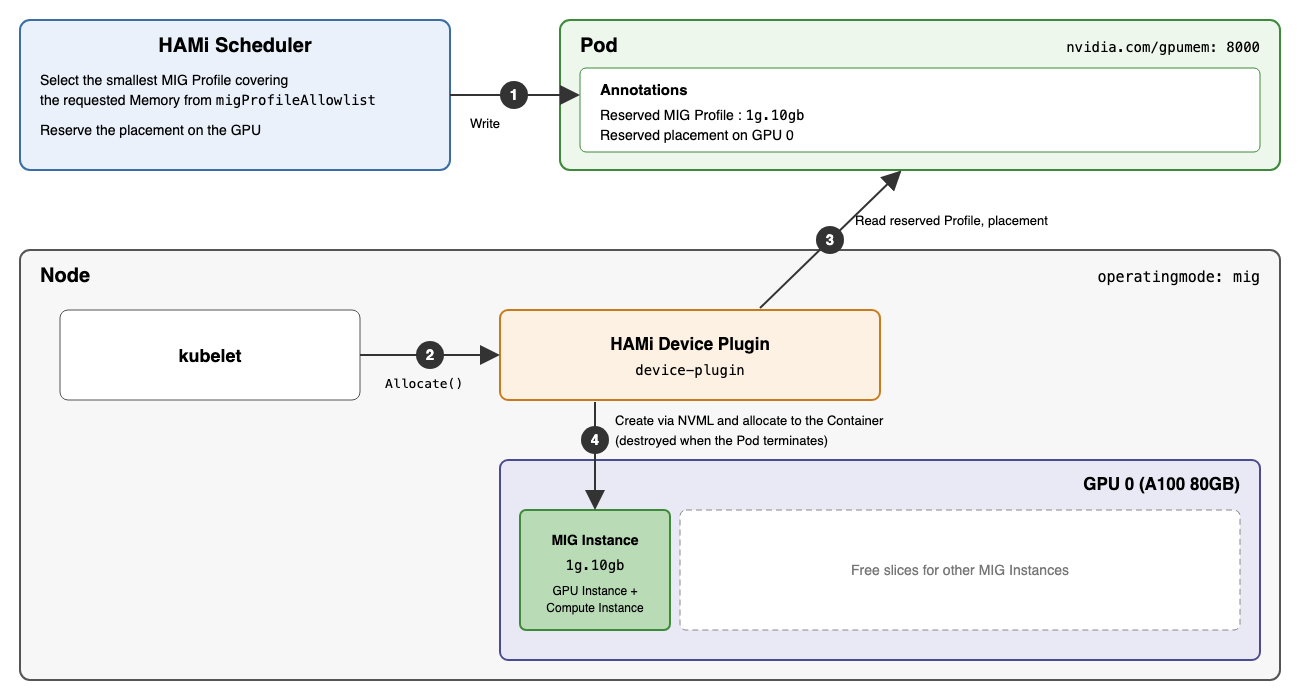
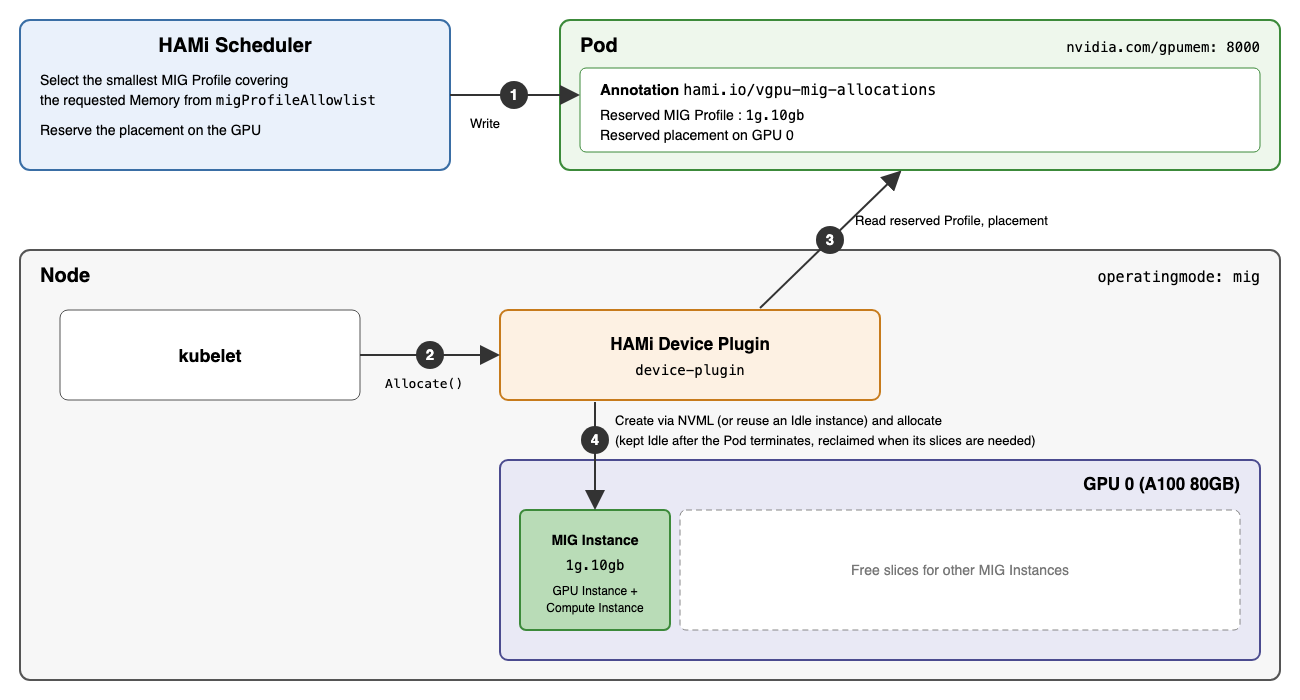
Clarify HAMi split count and MIG instance lifecycle

Changed region(s): [[0.4923, 0.57, 0.8, 0.66], [0.5231, 0.12, 0.7077, 0.15]]

diff --git a/content/docs/theory-analysis/kubernetes-hami-nvidia-gpu/index.md b/content/docs/theory-analysis/kubernetes-hami-nvidia-gpu/index.md
@@ -118,7 +118,7 @@ metadata:
 | `operatingmode` | Node의 vGPU 동작 모드. `hami-core`, `mig`, `remote` 중 하나 (`hami-core`) |
 {{< /table >}}
 
-[Table 2]는 NVIDIA GPU의 주요 vGPU 설정을 나타내고 있다. Cluster 공통 설정은 `hami-scheduler-device` ConfigMap의 `nvidia` Section에 정의하며, Node 단위의 재정의는 `hami-device-plugin` ConfigMap의 `nodeconfig` 목록에 Node 이름과 함께 정의한다. NVIDIA GPU에서는 물리 GPU 개수 × `deviceSplitCount`개의 `nvidia.com/gpu`가 Node의 Allocatable에 등록된다. `operatingmode`는 Node가 HAMi-core Mode와 MIG Mode 중 어느 방식으로 GPU를 나눌지 결정하며, `remote`는 네트워크를 통해서 다른 Server의 GPU를 이용하는 Mode로 이 글에서는 다루지 않는다.
+[Table 2]는 NVIDIA GPU의 주요 vGPU 설정을 나타내고 있다. Cluster 공통 설정은 `hami-scheduler-device` ConfigMap의 `nvidia` Section에 정의하며, Node 단위의 재정의는 `hami-device-plugin` ConfigMap의 `nodeconfig` 목록에 Node 이름과 함께 정의한다. NVIDIA GPU에서는 물리 GPU 개수 × `deviceSplitCount`개의 `nvidia.com/gpu`가 Node의 Allocatable에 등록된다. `operatingmode`는 Node가 HAMi-core Mode와 MIG Mode 중 어느 방식으로 GPU를 나눌지 결정하며, `remote`는 네트워크를 통해서 다른 Server의 GPU를 이용하는 Mode로 이 글에서는 다루지 않는다. `operatingmode`는 `nodeconfig`에서 Node 이름이나 `nodelabelselector`로 Node 단위로 지정하기 때문에 하나의 Cluster에서 Node마다 다른 Mode를 혼용할 수 있지만, 하나의 Node 안에서 GPU마다 다른 Mode를 지정할 수는 없다. 설정과 Node Label은 HAMi Device Plugin이 시작할 때 읽기 때문에, 변경 후에는 해당 Node의 HAMi Device Plugin을 재시작해야 한다.
 
 `deviceMemoryScaling`을 1보다 크게 설정하면 물리 Memory보다 많은 Memory를 할당하는 초과 할당이 가능한데, vGPU별 Memory 제한은 유지되지만 모든 vGPU가 제한값까지 Memory를 이용하면 물리 GPU의 OOM이 발생할 수 있는 실험적인 기능이다. `deviceCoreScaling`도 1보다 크게 설정하면 물리 SM보다 많은 SM 사용률을 할당할 수 있다. 두 Scaling 설정은 MIG Mode에는 적용되지 않으며, MIG Mode에서는 `deviceSplitCount` 대신 GPU가 수용할 수 있는 MIG Instance의 개수가 공유할 수 있는 Container 수를 제한한다.
 
@@ -388,6 +388,8 @@ MIG Mode는 `operatingmode`가 `mig`인 Node에서 동작하며, vGPU 요청에 
 
 Dynamic MIG는 v2.5.0에서 도입되었다. 도입 초기에는 `knownMigGeometries` 설정에 정의된 Geometry (Profile 조합) 단위로 GPU 전체의 MIG 구성을 전환하는 방식이었지만, v2.10.0의 Flexible MIG부터는 Profile 단위의 예약 방식으로 재구성되어 Node의 Cordon 없이 Workload별로 MIG Instance가 생성되고 회수된다. 단 HAMi가 MIG Instance의 생성과 제거를 단독으로 담당해야 하기 때문에, GPU Operator의 MIG Manager나 `mig-parted` 도구를 HAMi와 함께 운용할 수 없다.
 
+NVIDIA Device Plugin은 시작할 때 이미 생성된 MIG Instance를 조회하여 kubelet에 Device로 등록하기 때문에, MIG 구성을 변경하면 Device Plugin을 재시작해야 변경된 Device 목록이 반영된다. 반면 HAMi Device Plugin은 MIG Mode에서도 부모 GPU를 기준으로 만든 vGPU를 kubelet에 등록하고 MIG Instance는 `Allocate()` 처리 중에 생성하여 그 UUID를 Container에 전달하기 때문에, MIG Instance가 생성되고 회수되어도 Device Plugin을 재시작할 필요가 없다. 다만 GPU의 MIG Mode가 꺼져 있으면 HAMi Device Plugin이 첫 할당 시점에 MIG Mode를 직접 켜는데, A100 같은 Ampere GPU는 MIG Mode 변경에 GPU Reset이나 VM 재부팅이 필요할 수 있어 이 경우 할당이 실패한다. 따라서 Ampere GPU에서는 `nvidia-smi -mig 1` 명령어로 MIG Mode를 미리 켜고 GPU Reset까지 완료해 두는 것이 안전하다.
+
 #### 1.4.1. MIG Profile 선택
 
 ```yaml {caption="[File 8] MIG Mode를 지정하는 Pod 예제", linenos=table}
@@ -412,16 +414,22 @@ spec:
 
 MIG Profile은 Memory 크기만으로 선택되기 때문에 `nvidia.com/gpucores` 요청은 이용되지 않으며, 할당 내역에는 요청 값 대신 선택된 Profile의 Memory 크기와 Core 값이 기록된다. 특정 Profile을 선호하는 경우에는 Pod의 `nvidia.com/mig-profile-preference` Annotation에 `migProfileAllowlist`에 정의된 Profile 이름이나 `4g` 같은 Slice 접두사를 지정하며, 지정한 Profile이 Memory 크기를 수용하면 더 작은 Profile보다 먼저 선택된다. `nvidia.com/vgpu-mode` Annotation은 vGPU가 할당될 Mode를 고정하는 Annotation이며, 생략하면 HAMi Scheduler가 `mig` Node와 `hami-core` Node를 하나의 vGPU Pool로 취급하여 조건을 만족하는 Node를 자유롭게 선택한다.
 
+MIG Instance는 GPU의 Memory Slice 위에 생성되며, MIG Profile마다 생성할 수 있는 시작 위치가 정해져 있다. 예를 들어 A100 40GB GPU는 8개의 Slice를 가지며, `1g.5gb`는 0부터 6까지, `2g.10gb`는 0, 2, 4, `3g.20gb`는 0, 4에서 시작할 수 있고, `4g.20gb`와 `7g.40gb`는 0에서만 시작할 수 있다. 따라서 먼저 생성된 MIG Instance의 위치가 이후에 생성할 수 있는 MIG Profile을 제한한다.
+
+HAMi Scheduler는 HAMi Device Plugin이 NVML로 조회하여 등록한 위치 목록 중에서, GPU를 두 절반으로 나누어 작은 Profile은 한쪽 절반의 바깥쪽부터 채우고 다른 절반은 절반 크기의 Profile을 위해 비워 두는 방향으로 위치를 선택한다. 예를 들어 빈 A100 40GB GPU에 `1g.5gb`나 `2g.10gb`를 먼저 생성하면 위치 0에 배치되기 때문에 이후에도 위치 4에 `3g.20gb`를 생성할 수 있지만, 위치 0에서만 시작할 수 있는 `4g.20gb`는 생성할 수 없다.
+
 #### 1.4.2. MIG Instance 할당
 
 {{< figure caption="[Figure 3] Dynamic MIG Allocation Process" src="images/hami-nvidia-dynamic-mig.png" width="900px" >}}
 
 [Figure 3]은 Dynamic MIG의 할당 과정을 나타내고 있다.
 
-1. HAMi Scheduler는 [File 8]과 같이 선택한 MIG Profile과 함께 생성할 물리 위치까지 예약하여 Pod의 Annotation에 기록한다.
+1. HAMi Scheduler는 [File 8]과 같이 선택한 MIG Profile과 함께 생성할 물리 위치까지 예약하여 Pod의 `hami.io/vgpu-mig-allocations` Annotation에 기록한다.
 2. Pod가 Bind된 Node의 kubelet은 HAMi Device Plugin에게 `Allocate()` gRPC 요청을 전송한다.
 3. HAMi Device Plugin은 Pod의 Annotation에서 예약된 Profile과 위치를 조회한다.
-4. HAMi Device Plugin은 예약된 Profile의 GPU Instance와 Compute Instance를 NVML을 통해서 동적으로 생성하여 Container에 할당하고, Pod가 종료되면 생성했던 MIG Instance를 회수한다.
+4. HAMi Device Plugin은 예약된 Profile의 GPU Instance와 Compute Instance를 NVML을 통해서 동적으로 생성하여 Container에 할당한다. 같은 위치에 같은 크기의 Idle 상태 MIG Instance가 있으면 새로 생성하지 않고 재사용한다.
+
+Pod가 종료되어도 MIG Instance는 바로 제거되지 않는다. 같은 Profile이 다시 요청될 때 MIG Instance를 제거하고 다시 생성하는 Overhead를 줄이기 위해서이며, 재사용되는 MIG Instance는 MIG UUID도 그대로 유지된다. HAMi Device Plugin은 5초 주기로 실행 중인 Pod의 `hami.io/vgpu-mig-allocations` Annotation과 자신이 관리하는 MIG Instance를 비교하여, 이용하는 Pod가 없는 MIG Instance를 Idle 상태로 전환한다. 반면 HAMi Scheduler는 종료되지 않은 Pod의 Annotation만으로 MIG Instance의 위치를 계산하기 때문에 Idle 상태의 MIG Instance가 차지한 위치를 빈 공간으로 간주하며, 새로 예약된 위치가 Idle 상태의 MIG Instance와 겹치면 HAMi Device Plugin은 겹치는 MIG Instance를 오래 이용되지 않은 순서대로 제거한 후 새로운 MIG Instance를 생성한다.
 
 ### 1.5. GPU 선택
 

diff --git a/content/docs/theory-analysis/kubernetes-hami-nvidia-gpu/index.en.md b/content/docs/theory-analysis/kubernetes-hami-nvidia-gpu/index.en.md
@@ -118,7 +118,7 @@ metadata:
 | `operatingmode` | vGPU operating Mode of the Node. One of `hami-core`, `mig`, `remote` (`hami-core`) |
 {{< /table >}}
 
-[Table 2] shows the major vGPU settings of NVIDIA GPU. Cluster-wide settings are defined in the `nvidia` Section of the `hami-scheduler-device` ConfigMap, and per-Node overrides are defined with the Node name in the `nodeconfig` list of the `hami-device-plugin` ConfigMap. For NVIDIA GPU, the number of physical GPUs × `deviceSplitCount` of `nvidia.com/gpu` is registered in the Node's Allocatable. `operatingmode` decides whether the Node divides GPUs in HAMi-core Mode or MIG Mode, and `remote` is a Mode that uses GPUs of other Servers over the network, which this post does not cover.
+[Table 2] shows the major vGPU settings of NVIDIA GPU. Cluster-wide settings are defined in the `nvidia` Section of the `hami-scheduler-device` ConfigMap, and per-Node overrides are defined with the Node name in the `nodeconfig` list of the `hami-device-plugin` ConfigMap. For NVIDIA GPU, the number of physical GPUs × `deviceSplitCount` of `nvidia.com/gpu` is registered in the Node's Allocatable. `operatingmode` decides whether the Node divides GPUs in HAMi-core Mode or MIG Mode, and `remote` is a Mode that uses GPUs of other Servers over the network, which this post does not cover. Since `operatingmode` is specified per Node in `nodeconfig` by Node name or `nodelabelselector`, different Nodes in one Cluster can use different Modes, but different Modes cannot be specified for GPUs within one Node. Since HAMi Device Plugin reads the settings and Node Labels when it starts, the HAMi Device Plugin on the Node must be restarted after changing them.
 
 Setting `deviceMemoryScaling` above 1 enables over-allocation, allocating more Memory than the physical Memory. The per-vGPU Memory limit is maintained, but it is an experimental feature that can cause physical GPU OOM if all vGPUs use Memory up to their limits. Setting `deviceCoreScaling` above 1 also allows allocating more SM utilization than the physical SMs. The two Scaling settings do not apply to MIG Mode, and in MIG Mode, the number of MIG Instances a GPU can hold limits the number of Containers that can share it instead of `deviceSplitCount`.
 
@@ -388,6 +388,8 @@ MIG Mode operates on Nodes whose `operatingmode` is `mig` and uses the Dynamic M
 
 Dynamic MIG was introduced in v2.5.0. Initially, it switched the MIG configuration of the entire GPU in units of Geometries (Profile combinations) defined in the `knownMigGeometries` setting, but since Flexible MIG in v2.10.0, it has been restructured into a per-Profile reservation method, so MIG Instances are created and reclaimed per Workload without cordoning the Node. However, since HAMi must be solely responsible for creating and removing MIG Instances, GPU Operator's MIG Manager or the `mig-parted` tool cannot be operated together with HAMi.
 
+Since NVIDIA Device Plugin looks up already created MIG Instances when it starts and registers them with kubelet as Devices, the Device Plugin must be restarted after the MIG configuration changes for the changed Device list to be reflected. In contrast, HAMi Device Plugin registers vGPUs based on the parent GPU with kubelet even in MIG Mode, and creates MIG Instances while handling `Allocate()` and passes their UUIDs to the Container, so the Device Plugin does not need to be restarted when MIG Instances are created and reclaimed. However, if the GPU's MIG Mode is off, HAMi Device Plugin turns MIG Mode on by itself at the first allocation, and since Ampere GPUs such as A100 may require a GPU Reset or VM reboot to change MIG Mode, the allocation fails in that case. Therefore, on Ampere GPUs, it is safer to turn on MIG Mode in advance with the `nvidia-smi -mig 1` command and complete the GPU Reset.
+
 #### 1.4.1. MIG Profile Selection
 
 ```yaml {caption="[File 8] Example Pod specifying MIG Mode", linenos=table}
@@ -412,16 +414,22 @@ spec:
 
 Since MIG Profiles are selected by Memory size only, the `nvidia.com/gpucores` request is not used, and the Memory size and Core value of the selected Profile are recorded in the allocation history instead of the requested values. To prefer a specific Profile, specify a Profile name defined in `migProfileAllowlist` or a Slice prefix such as `4g` in the Pod's `nvidia.com/mig-profile-preference` Annotation, and if the specified Profile covers the Memory size, it is selected before smaller Profiles. The `nvidia.com/vgpu-mode` Annotation fixes the Mode in which the vGPU is allocated, and if omitted, HAMi Scheduler treats `mig` Nodes and `hami-core` Nodes as one vGPU Pool and freely selects a Node that satisfies the conditions.
 
+MIG Instances are created on the GPU's Memory Slices, and the start positions at which each MIG Profile can be created are fixed. For example, the A100 40GB GPU has 8 Slices, and `1g.5gb` can start from 0 to 6, `2g.10gb` at 0, 2, 4, `3g.20gb` at 0, 4, and `4g.20gb` and `7g.40gb` only at 0. Therefore, the positions of MIG Instances created first limit the MIG Profiles that can be created afterward.
+
+From the position list that HAMi Device Plugin queries through NVML and registers, HAMi Scheduler selects positions by dividing the GPU into two halves, filling one half with small Profiles from its outer edge and keeping the other half free for half-size Profiles. For example, if `1g.5gb` or `2g.10gb` is created first on an empty A100 40GB GPU, it is placed at position 0, so `3g.20gb` can still be created at position 4 afterward, but `4g.20gb`, which can start only at position 0, cannot be created.
+
 #### 1.4.2. MIG Instance Allocation
 
 {{< figure caption="[Figure 3] Dynamic MIG Allocation Process" src="images/hami-nvidia-dynamic-mig.png" width="900px" >}}
 
 [Figure 3] shows the Dynamic MIG allocation process.
 
-1. HAMi Scheduler reserves the MIG Profile selected as in [File 8] together with the physical position to create it, and records them in the Pod's Annotation.
+1. HAMi Scheduler reserves the MIG Profile selected as in [File 8] together with the physical position to create it, and records them in the Pod's `hami.io/vgpu-mig-allocations` Annotation.
 2. kubelet on the Node to which the Pod is bound sends an `Allocate()` gRPC request to HAMi Device Plugin.
 3. HAMi Device Plugin looks up the reserved Profile and position from the Pod's Annotation.
-4. HAMi Device Plugin dynamically creates the GPU Instance and Compute Instance of the reserved Profile through NVML and allocates them to the Container, and reclaims the created MIG Instance when the Pod terminates.
+4. HAMi Device Plugin dynamically creates the GPU Instance and Compute Instance of the reserved Profile through NVML and allocates them to the Container. If an Idle MIG Instance of the same size exists at the same position, it reuses it instead of creating a new one.
+
+MIG Instances are not removed immediately when the Pod terminates. This reduces the overhead of removing and recreating MIG Instances when the same Profile is requested again, and a reused MIG Instance keeps the same MIG UUID. Every 5 seconds, HAMi Device Plugin compares the `hami.io/vgpu-mig-allocations` Annotations of running Pods with the MIG Instances it manages, and switches MIG Instances used by no Pod to the Idle state. In contrast, HAMi Scheduler calculates MIG Instance positions only from the Annotations of Pods that have not terminated, so it regards the positions occupied by Idle MIG Instances as free space, and when a newly reserved position overlaps Idle MIG Instances, HAMi Device Plugin removes the overlapping MIG Instances in order of least recent use and then creates the new MIG Instance.
 
 ### 1.5. GPU Selection
 

diff --git a/content/docs/theory-analysis/kubernetes-hami/index.en.md b/content/docs/theory-analysis/kubernetes-hami/index.en.md
@@ -29,7 +29,7 @@ However, since the Device Plugin specification only allows limited information s
   * **Hardware-level Isolation** : The hardware itself is physically partitioned, creating virtual Accelerators in which each Partition has independent Memory and Cores. The possible configurations are limited to the set of Templates (fixed Memory and Core combinations) predefined by the vendor for each Chip, and one of these Templates is allocated to a Pod. The isolation is the most reliable, but partitioning finer than the Templates is not possible.
 * **Monitoring** : As in the **Metrics** path of [Figure 1], HAMi Scheduler provides the per-Accelerator and per-Pod allocation history on the `9395` Port, and the `vgpu-monitor` Container of HAMi Device Plugin provides the GPU state and the actual GPU usage of each Container on the `9394` Port, as Prometheus Metrics. Since the `vgpu-monitor` Container is included only in the HAMi Device Plugin for NVIDIA GPU, the actual usage Metrics are provided only for NVIDIA GPU.
 
-The Node in [Figure 1] has 2 physical Accelerators, and since the split count (`deviceSplitCount`) in the HAMi settings is set to 2, 4 Accelerators are registered in the Allocatable/Capacity of the Node. That is, one physical Accelerator can be shared by up to 2 Containers. Pod A requests 2 Accelerators with 80% Core utilization and Memory, and Pod B requests 1 Accelerator with 20% Core utilization and Memory, so Accelerator 1 is shared by Pod A and Pod B.
+The Node in [Figure 1] has 2 physical Accelerators, and since the split count (`deviceSplitCount`) in the HAMi settings is set to 2, 4 Accelerators are registered in the Allocatable/Capacity of the Node. That is, one physical Accelerator can be shared by up to 2 Containers. Pod A requests 2 Accelerators with 80% Core utilization and Memory, and Pod B requests 1 Accelerator with 20% Core utilization and Memory, so Accelerator 1 is shared by Pod A and Pod B. Since the split count is the upper limit on the number of Containers that can share one physical Accelerator, no more Containers can be allocated to an Accelerator that already has as many Containers as the split count, even if Memory and Cores remain.
 
 {{< table caption="[Table 2] Major Accelerators with HAMi Protocol Device Plugins" >}}
 | Accelerator | Accelerator Resource Name | Memory / Core Limit | Isolation Layer | Device Plugin |
@@ -96,7 +96,7 @@ Accelerator registration is performed by HAMi Device Plugin, which inflates the 
 2. HAMi Device Plugin creates its own Unix Domain Socket in the `/var/lib/kubelet/device-plugins/` Directory and starts the gRPC Server. The Socket file name differs for each Device Plugin, and NVIDIA GPU uses `nvidia-gpu.sock`.
 3. HAMi Device Plugin sends a `Register()` gRPC request through kubelet's Unix Domain Socket (`/var/lib/kubelet/device-plugins/kubelet.sock`) to register the Plugin itself with kubelet. The request includes the Resource name and the Socket file name created in step 2.
 4. After registration, HAMi Device Plugin starts checking the Health state of the Accelerators. When it detects a failure, it sends the items inflated from that physical Accelerator back to kubelet in the `Unhealthy` state, and also updates the `health` value of the Node Annotation so that the Accelerator is excluded from allocation candidates.
-5. kubelet sends a `ListAndWatch()` gRPC request to HAMi Device Plugin through the received Socket and receives the Accelerator list. At this time, HAMi Device Plugin inflates the number of physical Accelerators by a multiple of the split count setting (`deviceSplitCount`). For example, if there are 2 physical Accelerators and the split count is set to 2, 4 Accelerators are delivered, which means one physical Accelerator can be allocated to up to 2 Containers.
+5. kubelet sends a `ListAndWatch()` gRPC request to HAMi Device Plugin through the received Socket and receives the Accelerator list. At this time, HAMi Device Plugin inflates the number of physical Accelerators by a multiple of the split count setting (`deviceSplitCount`). This is because kubelet allocates one Device ID to only one Container at a time, so sharing one physical Accelerator among multiple Containers requires as many distinct Device IDs as the number of sharing Containers.
 6. kubelet reflects the received Accelerator count in the Node's Allocatable/Capacity through kube-apiserver.
 7. Separately from the Device Plugin specification, HAMi Device Plugin records the detailed information of the physical Accelerators in the `hami.io/node-[accelerator]-register` Node Annotation.
 

diff --git a/content/docs/theory-analysis/kubernetes-hami/CLAUDE.md b/content/docs/theory-analysis/kubernetes-hami/CLAUDE.md
@@ -11,6 +11,13 @@ HAMi 자체(이기종 AI 가속기 가상화 Middleware)에 포커스를 두고 
 
 ## 문서 구성 및 상태
 
+- **2026-11-22 1.1 5단계에 부풀림 이유 1문장 추가, 기존 "물리 2개 × 분할 2 = 4개" 예시 문장 삭제** (사용자 요청, KR/EN 동시): kubelet Device Manager는 Device ID를 Container에 독점 할당 →
+  공유하려면 공유 Container 수만큼 서로 다른 ID 필요(HAMi `<UUID>-<n>`, NVIDIA Device Plugin Time-slicing도 `<UUID>::<n>` Replica). 일반 Kubernetes 동작 기반.
+- **2026-11-22 [Figure 1] 예시 문단에 분할 개수 상한 1문장 추가** (분할 개수 1 예시 문장은 사용자 요청으로 제거) (사용자 요청, KR/EN 동시): 분할 개수 = Accelerator당 Container 수 상한,
+  Memory/Core 여유와 무관하게 상한 도달 시 할당 불가, 1이면 Allocatable = 물리 개수 → 공유 불가. 근거: kubelet은 등록된 Device ID 수만큼만 할당
+  (GetPluginDevices: 물리 GPU당 deviceSplitCount개 ID), Scheduler는 pkg/device/nvidia/device.go:1065 `dev.Count <= dev.Used` → CardTimeSlicingExhausted
+  (NVIDIA 코드로 확인, 다른 벤더 Fit은 미확인이나 Allocatable 제한은 Device Plugin 공통). 같은 날 1.1에 넣었던 "기본값 10 근거 없음 / 시작 시에만
+  설정 읽음(SIGHUP, Pod·kubelet 재시작)" 2문단은 사용자 요청으로 롤백(근거: cmd/device-plugin/nvidia/main.go startPlugins, fsnotify는 kubelet Socket만 감시).
 - **2026-11-22 Figure 1 경로를 구성 요소 설명에 녹임** (사용자 요청, KR/EN 동시): HAMi Scheduler bullet에 Scheduler Extender 경로(Loopback 9444)와
   Mutating Webhook 경로(kube-apiserver → hami-scheduler Service), HAMi Device Plugin bullet에 Device Plugin Refit 경로(NUMA 정렬로 재선택 요청),
   Library 수준 격리에 Copy/Bind Mount 둘 다 [Figure 1] 명시. Metrics 경로는 Monitoring bullet에 기존 반영.
